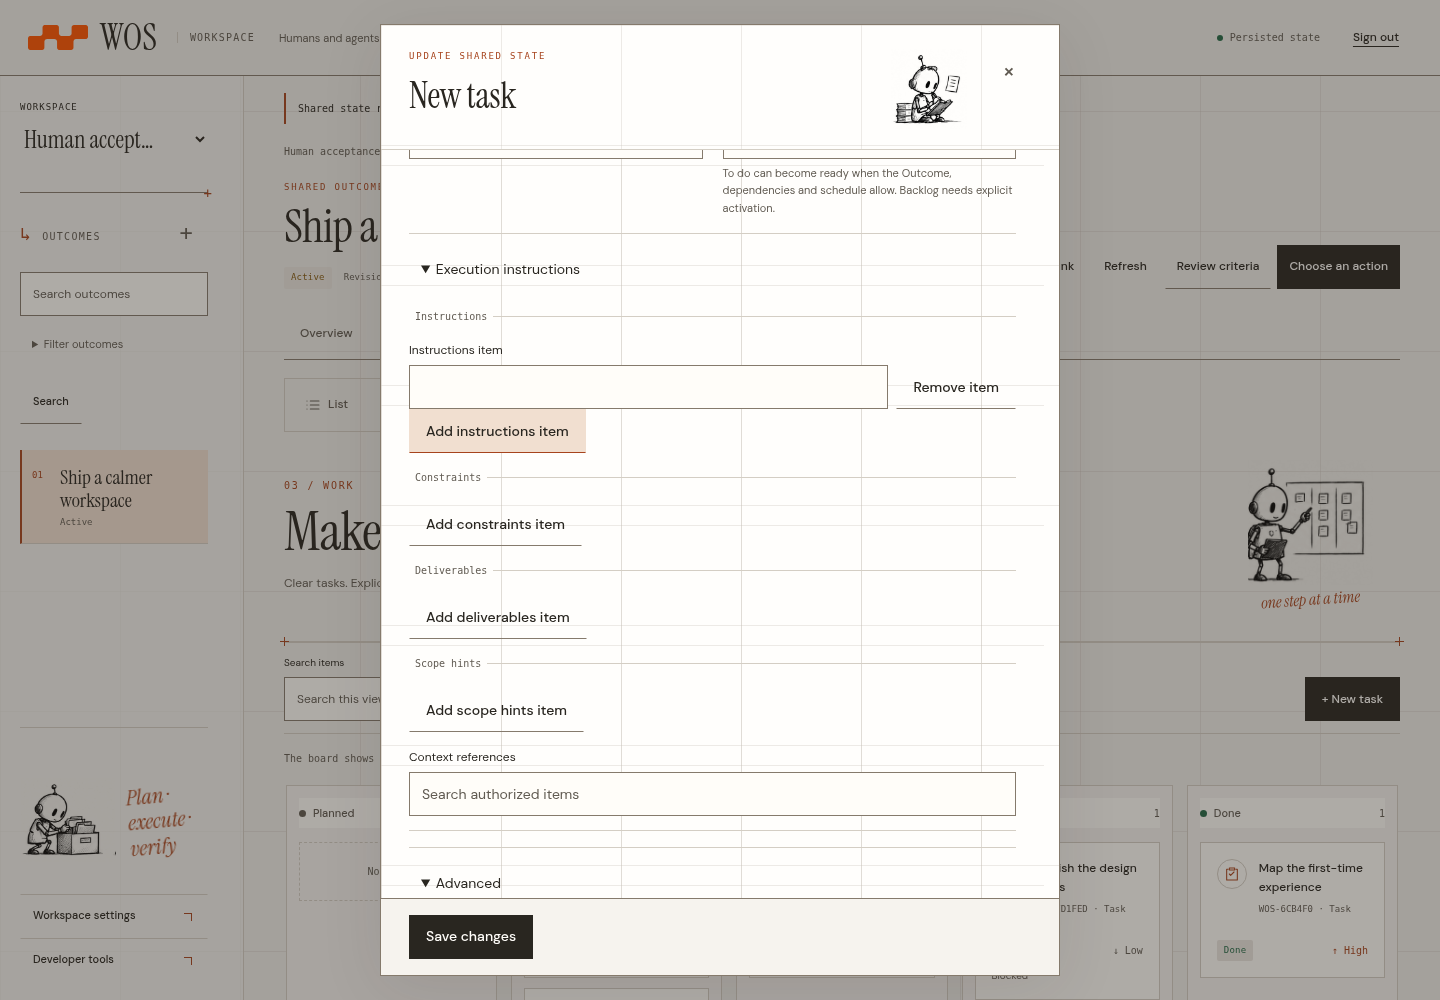
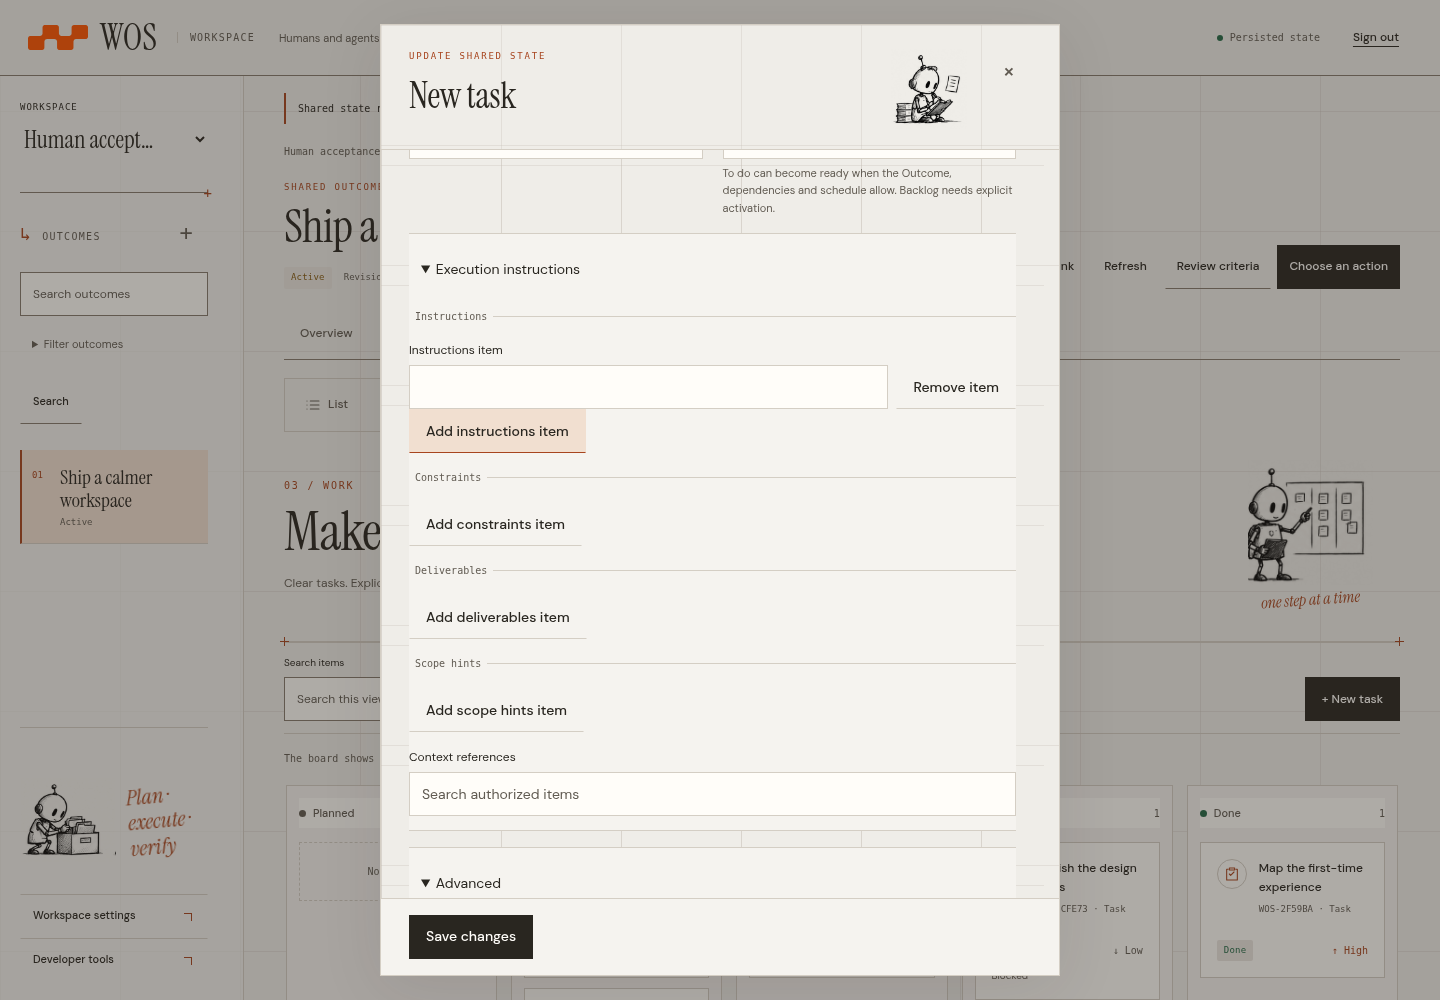
docs(design): record matte modal surfaces and responsive captures

diff --git a/docs/design/editorial/validation.md b/docs/design/editorial/validation.md
@@ -1,6 +1,6 @@
 # Editorial workspace validation
 
-Validated locally on 2026-10-16 (UTC), against a built native WOS server and isolated SQLite databases. Tooling: Go 1.27.2, Node 24.19.0, locked Playwright 1.62.1, and Chromium 154.0.8037.57 on Linux amd64.
+Validated locally on 2026-10-16 (America/Sao_Paulo), against a built native WOS server and isolated SQLite databases. Tooling: Go 1.27.2, Node 24.19.0, locked Playwright 1.62.1, and Chromium 154.0.8037.57 on Linux amd64.
 
 ## Executed checks
 
@@ -8,7 +8,8 @@ Validated locally on 2026-10-16 (UTC), against a built native WOS server and iso
 | --- | --- | --- |
 | Native server build | Passed | `go build -p 4 -trimpath -o bin/wos ./packages/wos-api/cmd/wos`; embeds fonts, CSS, JS, grid, robots, and the WOS brand library |
 | Browser unit tests | 14 passed | Action permissions, exact-intent handling, official copy, and six-area routing; the locale gate now includes `editorial.js` |
-| Complete browser suite | 41 passed, no skips | Includes nine editorial/palette/brand/component/interaction/scale tests and the 32 existing browser journeys |
+| Complete browser suite | 42 passed, no skips | Includes ten editorial/palette/brand/component/interaction/scale/modal tests and the 32 existing browser journeys |
+| Matte modal surfaces | Passed | All four modal families at 1440 × 1000 and 390 × 844, expanded actions/instructions, technical commands, and all four administration operations; check surface roles, no pure-white element backgrounds, backdrop color, and focus inside the active modal. A separate same-DOM comparison with `e4a44de` confirms identical geometry/scroll/image attachment at 320/390/1440/2560 px; [inventory and measurement method](modal-surfaces.md) |
 | Button/hover audit | Passed | Discover real controls across sign-in, every area, list/board, detail, expanded Task/reference controls, settings, and normal/technical action menus. Check nominal text contrast in idle/hover/pressed states, stable geometry, label insets, 44 px target height, selected-tab distinction, and disabled-hover stability. A touch-enabled context covers 390/320 px, keyboard focus, hover capability, and page width; [scope and inventory](interactions.md) |
 | Browser CI diagnostics | Passed locally | GitHub annotations report failed expectations alongside line output. A reproduced Chromium Headless 149/151 glyph-rounding difference is handled by checking intrinsic headings/buttons through precise type, lines and containment while retaining layout-box comparisons; fonts are explicitly loaded before measuring. See [measurement rules](responsive-scale.md). This changes the verification helper; the captured application CSS remains unchanged |
 | Fixed grid and sidebar | Passed | Compare visible paper pixels across 173 px of real scrolling at 1440/390 px widths; confirm content movement, stationary desktop sidebar, and document-relative reduced-motion fallback. Scroll a settings body without moving its grid. Select a long mobile Outcome by keyboard, then reach settings through a 15-Outcome desktop sidebar |
@@ -18,20 +19,20 @@ Validated locally on 2026-10-16 (UTC), against a built native WOS server and iso
 | Automated accessibility | Passed within the browser suite | axe login, overview, common Task form, and reference combobox: no critical/serious violations in the configured WCAG 2/2.1/2.2 AA tag set; this is not a claim of complete conformance |
 | Keyboard and reflow | Passed | Creation, reference selection, confirmation, focus restoration, mobile actions, 200% and 400% equivalent reflow |
 | Editorial layout matrix | Passed | All six areas at 1920 × 1080, 1440 × 900, 1280 × 800, 768 × 1024, 390 × 844, 360 × 740, and 320 × 740; no page-level horizontal overflow |
-| Responsive composition scale | Passed | Unchanged 1440 CSS px reference; same-DOM, byte-identical PNG comparisons for sign-in and overview/Task forms at reference/smaller widths, including doubled root text. Measure proportional positions, dimensions, fonts, padding and column counts for sign-in/overview/form at 1920 × 1080, 2560 × 1440 and 3840 × 2160; preserve the five-column Work board, test all-area page overflow and persistent actions, and verify the cap at 5120 px. Review the actual captures; [formula, tolerances and reproduction](responsive-scale.md) |
+| Responsive composition scale | Passed | The prior scale run established the unchanged 1440 CSS px reference; same-DOM, byte-identical PNG comparisons for sign-in and overview/Task forms at reference/smaller widths, including doubled root text. Measure proportional positions, dimensions, fonts, padding and column counts for sign-in/overview/form at 1920 × 1080, 2560 × 1440 and 3840 × 2160; preserve the five-column Work board, test all-area page overflow and persistent actions, and verify the cap at 5120 px. Review the actual captures; [formula, tolerances and reproduction](responsive-scale.md) |
 | Fallbacks | Passed | Doubled root text size, reduced motion, blocked font/image requests, and a usable Task form without those assets; static login narrative and no-JavaScript notice checked at 1440, 390, and 320 px |
 | Real workflow coverage | Passed | Outcome planning, list/board, permissions and revocation, HTTP/MCP work, evidence review, signed independent review/correction, immutable history, and reload/continuation |
 | Go web/HTTP/server packages | Passed | `go test -p 4 ./packages/wos-api/web ./packages/wos-api/http ./packages/wos-api/internal/server` |
 | Static analysis | Passed | `go vet -p 4` on the same three affected packages |
 | Skill package | Passed in the earlier setup run | `scripts/validate_package.py`: structure, 62 tokens, 10 study crops, internal links, token output, and package hashes; the package is unchanged in this refinement |
 | Git whitespace | Passed | `git diff --check` |
-| Main-page gallery | 32 actual viewport captures | Refreshed main pages and component states, including tab/switch/card/form hover, mobile focus, reference/Full HD/2K/4K scale views, and 2K form/board views; [gallery](README.md#main-pages) and [capture/source hashes](screenshots.json) |
+| Main-page gallery | 36 actual viewport captures | Retain workspace-page captures; refresh the nine affected modal captures and add four mobile action/detail and desktop/mobile technical views; [gallery](README.md#main-pages) and [capture/source hashes](screenshots.json) |
 
 The gallery was generated by `editorial.spec.mjs` through public commands against a fresh database. It contains synthetic example titles and state, with no user credentials or external customer data. The chapter capture test checks loaded artwork and unexpected console/page errors. The signed-out namespace discovery's expected 401 is distinguished from an asset or application failure.
 
-A declaration comparison against pre-scale commit `314f71c` confirms that both stylesheets retain every declaration apart from the dimensional unit substitutions and the replaced wide-screen sizing rules. All 119 recorded artwork, font, decoration, palette-source, and brand file hashes remain unchanged.
+The earlier scale declaration comparison against `314f71c` is recorded in [responsive-scale.md](responsive-scale.md). The subsequent matte-modal change affects only surface/border paint and its dialog-scoped color alias in `editorial.css`; no markup, application JavaScript, dimensions, spacing, breakpoints, grid images, or backdrop rules change. All 119 recorded artwork, font, decoration, palette-source, and brand file hashes remain unchanged.
 
-The current gallery combines the approved editorial composition, Woobe Light colors, one supplied WOS symbol, and the owner's requested editorial typography for the name. The [component review](component-review.md) records the top-down analysis, clipping diagnosis, fixed-paper/sidebar follow-up, and the [interaction review](interactions.md). All captures use the actual viewport so the grid, sidebar, backdrop, body, and footer match the visible interface at that scroll position. The palette README is archived byte for byte in [woobe-palette-source.md](woobe-palette-source.md), with separate [brand provenance](brand-kit/README.md). Robot, brand, and font bytes remain unchanged. Build, the three targeted Go package tests, and vet were repeated after the responsive-scale refinement. The broader Go suite below records the earlier complete run; it was not repeated for these presentation refinements.
+The current gallery combines the approved editorial composition, Woobe Light colors, one supplied WOS symbol, and the owner's requested editorial typography for the name. The [component review](component-review.md) records the top-down analysis, clipping diagnosis, fixed-paper/sidebar follow-up, and the [interaction review](interactions.md). All captures use the actual viewport so the grid, sidebar, backdrop, body, and footer match the visible interface at that scroll position. The palette README is archived byte for byte in [woobe-palette-source.md](woobe-palette-source.md), with separate [brand provenance](brand-kit/README.md). Robot, brand, and font bytes remain unchanged. Build, the three targeted Go package tests, and vet were repeated after both the responsive-scale and matte-modal refinements. The broader Go suite below records the earlier complete run; it was not repeated for these presentation refinements.
 
 ## Broader Go suite: original baseline and CI repair
 
@@ -48,7 +49,7 @@ The subsequent CI repair requested by the owner isolates the test's virtual time
 
 ## Limits
 
-- The 41 browser tests passed together in the responsive-scale run. The existing stale-cursor journey encountered its previously recorded timing failure in the initial scale run, then passed in the final complete run; its assertions and production reference-picker logic were preserved.
+- The 42 browser tests passed together in the matte-modal run. The existing stale-cursor journey passed with its assertions and production reference-picker logic preserved; the prior scale run's timing failure remains a historical observation.
 - Chromium/Linux automation and the listed viewport matrix do not certify other browser engines, physical devices, production deployment, or PostgreSQL parity.
 - Screen-reader evaluation, representative-user review, visual approval by the owner, and full manual accessibility acceptance remain pending.
 - Authored text in other scripts uses system fallbacks; the vendored Latin fonts match the official English interface.

diff --git a/docs/design/editorial/modal-surfaces.md b/docs/design/editorial/modal-surfaces.md
@@ -1,0 +1,28 @@
+# Matte workspace modals
+
+The owner requested a color-only continuation of the workspace paper across every modal. The existing four native `<dialog>` roots cover action selection, human/technical command forms, entity details, and workspace administration. No modal markup or application JavaScript changes are needed.
+
+| Role | Existing token | Coverage |
+| --- | --- | --- |
+| Main paper | `--wos-canvas` | All four modal roots, visible behind transparent headings and scrolling bodies |
+| Secondary paper | `--wos-workspace` | Persistent footers, fieldsets, disclosures, context, detail sections, protocol panels, notices, error backgrounds, and conflict comparison sections |
+| Raised reading surface | `--wos-surface` | Fields, including read-only fields; reference results; technical JSON; conclusion/relation cards; existing roadmap and contract/review cards |
+| Neutral rules | `--wos-border` | Modal outline, field borders, footer rules, reference boundaries, card borders, and existing dividers |
+
+`editorial.css` scopes the control-line alias and secondary surface rules to dialogs. Selection and hover still use the existing interaction tokens; semantic text and status rails retain their meaning. The token definitions in `colors.css`, typefaces, artwork, backdrop, grid image/attachment, and layout declarations are unchanged. Detail drawers retain their existing transparent scrolling grid and ungridded outer surface.
+
+## Verification
+
+The browser palette journey opens all four roots at **1440 × 1000** and **390 × 844**, expands the action menu and Task instructions, visits all four administration operations, and opens the technical command form. It checks main and nested paper colors, absence of pure-white element backgrounds, the original backdrop color, and focus inside the active dialog. Expanded instruction controls also retain their complete borders and accessible scroll position.
+
+A separate local comparison swaps the current stylesheet for the pre-change `e4a44de` stylesheet through a same-origin CSS route on the same DOM, with fonts loaded and reduced motion enabled. All four modal roots and their descendants retain exactly equal rectangles, scroll metrics, display/position, typography, padding/margins/gaps, border widths, grid columns, overflow, and background image/size/attachment at widths **320, 390, 1440, and 2560 CSS px**: 16 identical comparisons. The [measurement record](modal-geometry.json) includes element counts; this one-off inspection is separate from the committed browser-test count.
+
+The existing complete browser suite additionally covers keyboard focus/restoration, real saves, conflict recovery, uncertain retries, permissions, contract and signed-review details, button states, accessibility checks, fixed-paper scrolling, persistent actions, and responsive geometry. Its nested-form matrix includes 320 px, mobile landscape, and doubled root text; its scale matrix includes Full HD, 2K, and 4K. See [validation](validation.md) for executed results and limits.
+
+Affected captures are refreshed in the [gallery](README.md#detail-forms-and-settings), including expanded forms, the 2K form, and mobile settings. The added mobile action/detail and desktop/mobile technical-command captures show the remaining modal families. [Capture provenance](screenshots.json) distinguishes the modal refresh from retained workspace-page captures.
+
+To reproduce the modal palette check after building the native server, run from `tests/web`:
+
+```sh
+npx playwright test editorial.spec.mjs -g 'all modal families'
+```

diff --git a/docs/design/editorial/README.md b/docs/design/editorial/README.md
@@ -20,6 +20,7 @@ This is a presentation change to the six existing areas, authentication screen, 
 | Robot vignettes | User-supplied monochrome pen-and-ink illustrations; each chapter has a relevant action | Smaller, reserved space alongside the introduction |
 | Marginal notes | Brief italic annotations attached to the illustrations | Remain decorative and outside control hit areas |
 | Forms and details | Gridded heading, small ink vignette, one scrolling body, persistent actions, complete control borders, and inset copper field focus | Related fields stack; close and save stay visible as nested content expands |
+| Modal paper | Canvas headings/body, workspace secondary sections and footer, surface fields/cards, and shared border tokens; [surface inventory](modal-surfaces.md) | Identical color roles in action menus, forms, details, and settings |
 | Motion | Content scrolls over a stationary grid; a small decorative arrival | Native scrolling without listeners or pinning; reduced motion makes the grid move with the document and disables animation |
 
 The application uses the grammar of the style rather than a literal chess theme. Its operational tables and forms keep their practical density. Instrument Serif is a deliberate font selection, not a claim about the unidentified font in the style reference.
@@ -68,7 +69,7 @@ All these illustrations repeat a meaning already present in adjacent text and ha
 
 ## Main pages
 
-These 32 captures use a real local server and isolated illustrative databases. The demo's records are created through public commands. They are examples, not product metrics, customer evidence, or release certification. Main desktop viewports are 1440 × 1000 CSS px, mobile viewports are 390 × 844, and the scale comparison includes Full HD, 2K, and 4K. All captures show the actual viewport, including fixed layers, scroll regions, and persistent actions. Pages continue below the captured opening view.
+These 36 captures use a real local server and isolated illustrative databases. The demo's records are created through public commands. They are examples, not product metrics, customer evidence, or release certification. Main desktop viewports are 1440 × 1000 CSS px, mobile viewports are 390 × 844, and the scale comparison includes Full HD, 2K, and 4K. All captures show the actual viewport, including fixed layers, scroll regions, and persistent actions. Pages continue below the captured opening view.
 
 ### Sign in
 
@@ -112,6 +113,10 @@ These 32 captures use a real local server and isolated illustrative databases. T
 
 ![Editorial action menu](screenshots/16-action-menu.png)
 
+All modal families use the [same matte surface roles](modal-surfaces.md), including the technical command form:
+
+![Technical command form with matte paper and warm field surfaces](screenshots/35-technical-command.png)
+
 ### Mobile
 
 | Overview | Work |
@@ -121,6 +126,12 @@ These 32 captures use a real local server and isolated illustrative databases. T
 | Mobile Task form | Mobile settings |
 | --- | --- |
 | ![Mobile Task form with separate scroll body and actions](screenshots/17-mobile-task-form.png) | ![Mobile settings with persistent save action](screenshots/18-mobile-settings.png) |
+
+| Mobile action menu | Mobile Task detail |
+| --- | --- |
+| ![Matte mobile action menu](screenshots/33-mobile-action-menu.png) | ![Matte mobile Task detail](screenshots/34-mobile-task-detail.png) |
+
+![Mobile technical command form](screenshots/36-mobile-technical-command.png)
 
 ### Actual loading state
 
